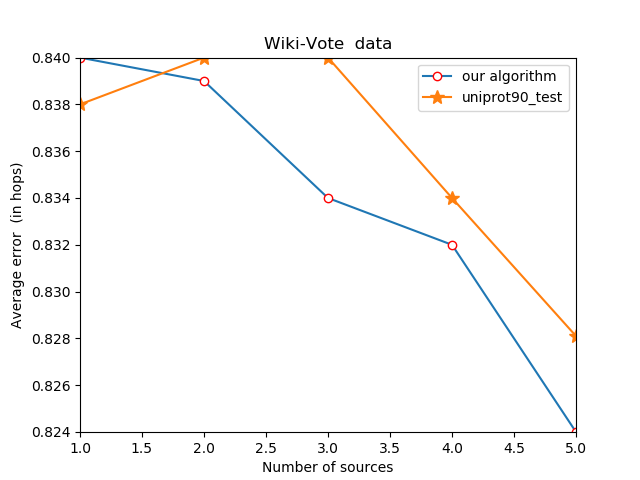
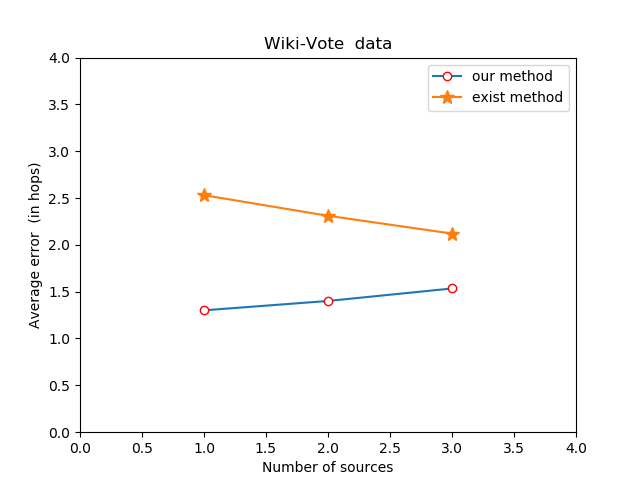
madefs

diff --git a/jarden_center/main_code/single-multiple-source/baseon_setCover/Source_number_accuracy.py b/jarden_center/main_code/single-multiple-source/baseon_setCover/Source_number_accuracy.py
@@ -135,30 +135,15 @@ def  contractSource(G,sourceNum,sourceMaxDistance):
                       pass
 
          elif  sourceNum==4:
-             # 先随机找一个点。
-             random_Rumo = random.sample(sumlist, 1)
-             random_RumorSource = random_Rumo[0]
-             # # 找第二、三,四个点。
-             # for index in range(len(sumlist) - 3):
-             #     if nx.has_path(G, sumlist[index], random_RumorSource) == True and nx.has_path(G, sumlist[index + 1],
-             #                                                                                   random_RumorSource) == True  and nx.has_path(G, sumlist[index+2], random_RumorSource) == True:
-             #         if nx.shortest_path_length(G, source=sumlist[index],
-             #                                    target=random_RumorSource) > 4 and nx.shortest_path_length(G, source=
-             #         sumlist[index], target=random_RumorSource) < 6 and nx.shortest_path_length(G, source=sumlist[
-             #             index + 1], target=random_RumorSource) > 4 and nx.shortest_path_length(G, source=sumlist[
-             #             index + 1], target=random_RumorSource) < 6\
-             #                 :
-             #             rumorSourceList.append(random_RumorSource)
-             #             rumorSourceList.append(sumlist[index])
-             #             rumorSourceList.append(sumlist[index + 1])
-             #             print('找到了3源点了。')
-             #             break
-             # if len(rumorSourceList) == 4:
-             #     print('找到了4个点')
-             #     flag = 1
-             # else:
-             #     pass
-
+               templist=list(nx.all_simple_paths(G,source=174,target=2419))
+               print (templist)
+               max=0
+               result=[]
+               for temp in templist:
+                   if len(temp)>max:
+                       max=len(temp)
+                       result=temp
+               print (result)
 
 
 
@@ -812,16 +797,16 @@ def   plotform(x,y):
 
 
 
-    x = range(1,6)
-    y_train = [1.3, 1.4, 1.5333333333333332, 0.832, 0.824]
-    y_test = [0.838, 0.840, 0.840, 0.834, 0.8281]
+    x = range(1,4)
+    y_train = [1.3, 1.4, 1.5333333333333332]
+    y_test = [2.53, 2,31, 2.12]
     # plt.plot(x, y, 'ro-')
     # plt.plot(x, y1, 'bo-')
     # pl.xlim(-1, 11)  # 限定横轴的范围
     # pl.ylim(-1, 110)  # 限定纵轴的范围
 
-    plt.plot(x, y_train, marker='o', mec='r', mfc='w', label='uniprot90_train')
-    plt.plot(x, y_test, marker='*', ms=10, label='uniprot90_test')
+    plt.plot(x, y_train, marker='o', mec='r', mfc='w', label='our method')
+    plt.plot(x, y_test, marker='*', ms=10, label='other method')
     plt.legend()  # 让图例生效
 
 

diff --git a/jarden_center/main_code/single-multiple-source/baseon_setCover/graph.py b/jarden_center/main_code/single-multiple-source/baseon_setCover/graph.py
@@ -1,0 +1,27 @@
+
+
+import  matplotlib.pyplot as plt
+x = range(1 ,4)
+y_train = [1.3, 1.4, 1.5333333333333332]
+y_test = [2.53, 2.31, 2.12]
+# plt.plot(x, y, 'ro-')
+# plt.plot(x, y1, 'bo-')
+plt.xlim(0,4)  # 限定横轴的范围
+plt.ylim(0,4)  # 限定纵轴的范围
+
+plt.plot(x, y_train, marker='o', mec='r', mfc='w', label='our method')
+plt.plot(x, y_test, marker='*', ms=10, label='exist method')
+plt.legend()  # 让图例生效
+
+
+plt.margins(0)
+plt.subplots_adjust(bottom=0.10)
+plt.xlabel('Number of sources')  # X轴标签
+plt.ylabel("Average error  (in hops)")  # Y轴标签
+plt.title("Wiki-Vote  data")  # 标题
+plt.savefig('f1.png')
+plt.show()
+
+
+
+
